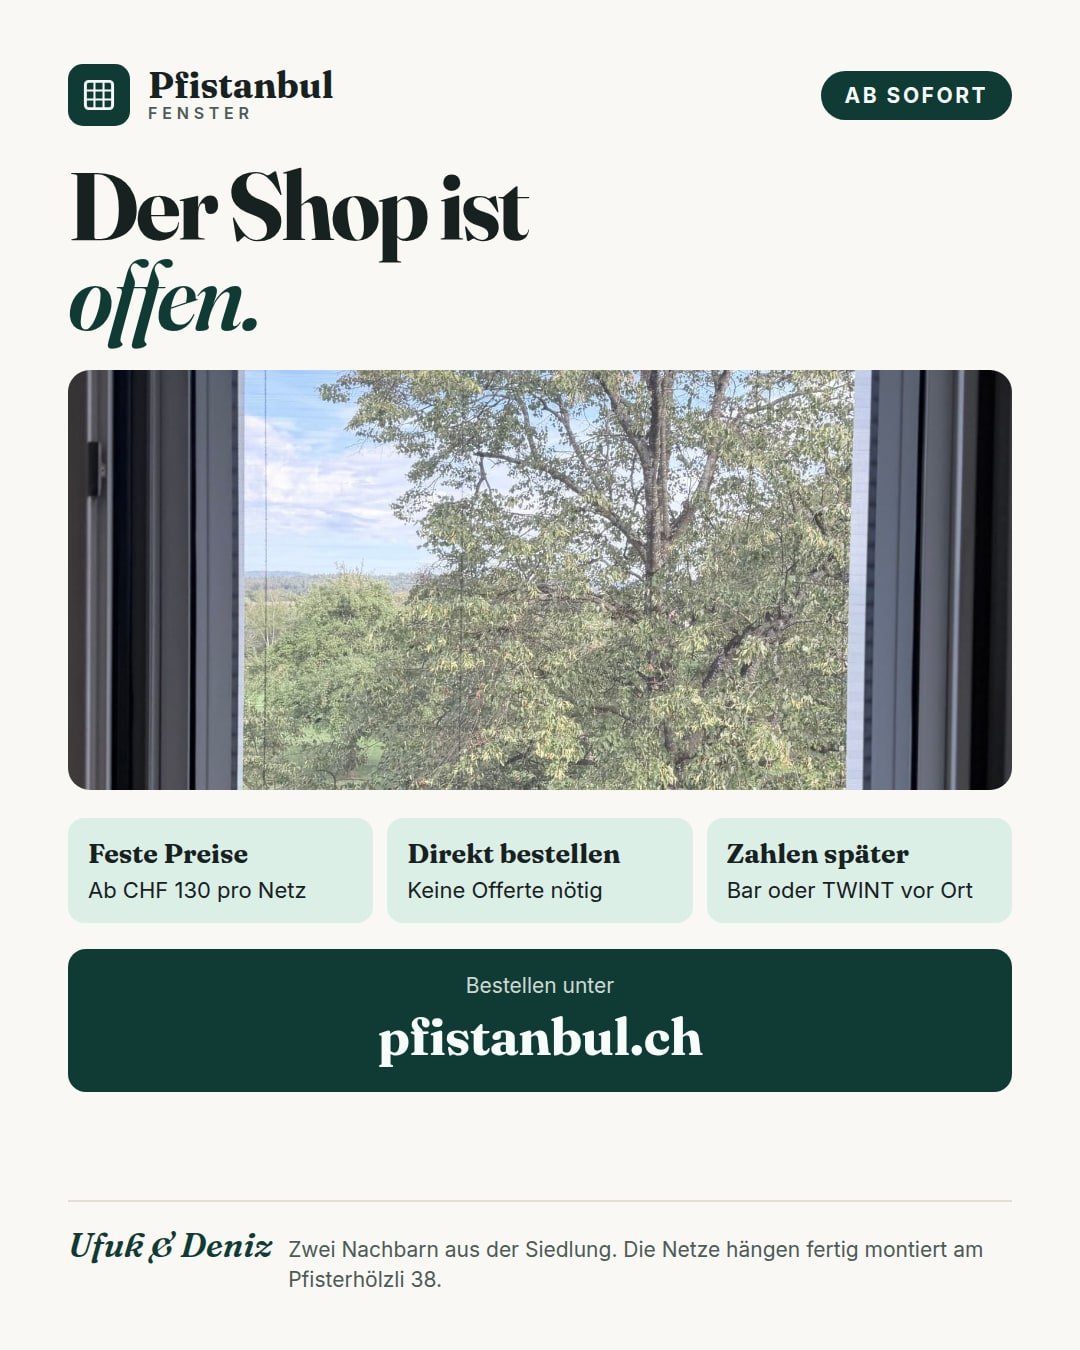
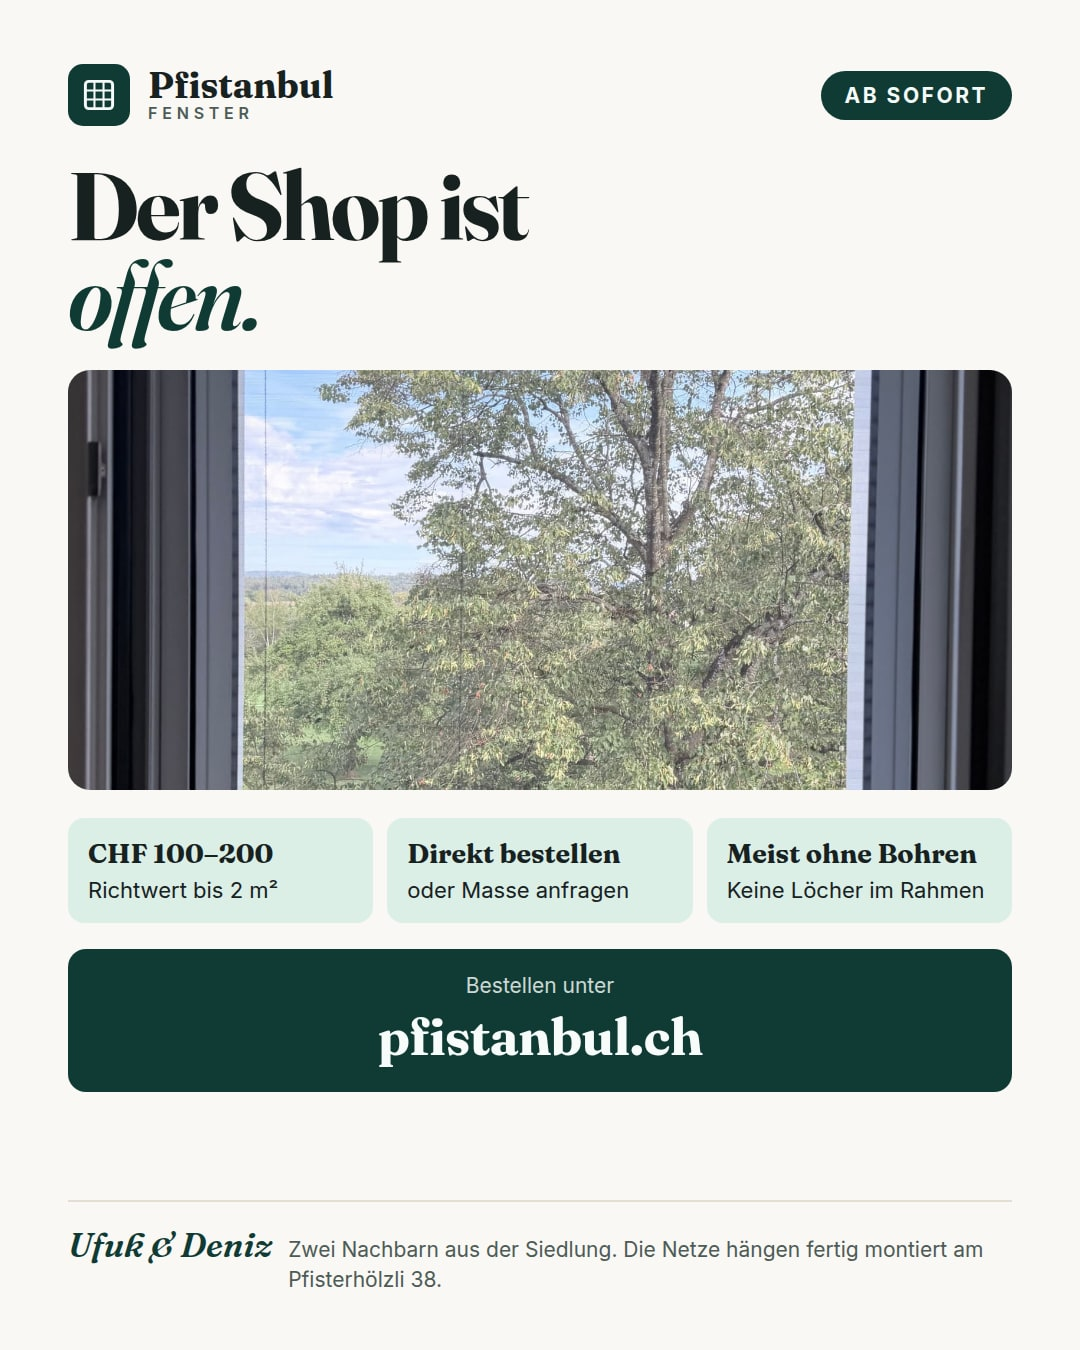
Live-Beitrag: Preisspanne statt Siedlungspreis, Bohren statt Bezahlen
Der Beitrag richtet sich nicht mehr nur an die Siedlung.

- Erste Tafel zeigt die Spanne aus dem Katalog (CHF 100-200) statt der
  festen Preise fuers Pfisterhoelzli. Der Zusatz "bis 2 m²" gehoert dazu:
  ohne ihn erwartet jemand mit einer Balkontuere von drei Quadratmetern
  hoechstens 200 Franken.
- Zweite Tafel nennt beide Wege - bestellen oder Masse anfragen.
- Dritte Tafel traegt jetzt das Montageargument statt des spaeteren
  Zahlens. Zahlungsaufschub ist ein Angebot, kein Verkaufsargument.

Der Text zog nach: Er nannte "ab CHF 130" und widersprach damit dem Bild,
und er hatte zwei Absaetze ueber das Bezahlen. Jetzt einer, dafuer einer
zum Kleben statt Bohren.

Claude-Session: https://claude.ai/code/session_01UiUFn7ykifp8b7M2ApYf3F

Changed region(s): [[0.6722, 0.6222, 0.9167, 0.6844], [0.0917, 0.6222, 0.275, 0.6844], [0.3667, 0.6533, 0.5806, 0.6844]]

diff --git a/instagram/livegang.html b/instagram/livegang.html
@@ -15,6 +15,11 @@
  * Die Adresse steht gross und allein in ihrer Zeile. Sie ist der einzige
  * Grund, warum es diesen Beitrag gibt.
  *
+ * Die Preisspanne ist die aus dem Katalog (priceRange), nicht die festen
+ * Preise fuers Pfisterhoelzli: Der Beitrag richtet sich nicht mehr nur an die
+ * Siedlung. Der Zusatz "bis 2 m²" gehoert dazu - ohne ihn erwartet jemand mit
+ * einer Balkontuere von drei Quadratmetern hoechstens 200 Franken.
+ *
  * Rendern: node instagram/tafel.mjs livegang
  */
 @font-face { font-family: 'Fraunces'; src: url('../public/fonts/fraunces-normal-700-latin.woff2') format('woff2'); font-weight: 700; font-display: block; }
@@ -99,9 +104,9 @@ h1 em { display: block; font-style: italic; color: #0f3b34; }
   </figure>
 
   <div class="punkte">
-    <div class="punkt"><b>Feste Preise</b>Ab CHF 130 pro Netz</div>
-    <div class="punkt"><b>Direkt bestellen</b>Keine Offerte nötig</div>
-    <div class="punkt"><b>Zahlen später</b>Bar oder TWINT vor Ort</div>
+    <div class="punkt"><b>CHF 100–200</b>Richtwert bis 2 m²</div>
+    <div class="punkt"><b>Direkt bestellen</b>oder Masse anfragen</div>
+    <div class="punkt"><b>Meist ohne Bohren</b>Keine Löcher im Rahmen</div>
   </div>
 
   <div class="adresse">

diff --git a/instagram/LIESMICH.md b/instagram/LIESMICH.md
@@ -166,24 +166,25 @@ im Bild: Sie ist der einzige Grund, warum es diesen Beitrag gibt.
 ```
 Ab heute können Sie bestellen.
 
-Lange gemessen, gerechnet und ausprobiert – seit heute ist der Shop offen. Die
-vier Fensterformate, die sich im Pfisterhölzli über alle Wohnungen wiederholen,
-haben wir ausgemessen. Für jedes gibt es einen festen Preis: Format wählen,
-bestellen, fertig.
+Lange gemessen, gerechnet und ausprobiert – seit heute ist der Shop offen. Wir
+lassen Insektenschutz-Plissees nach Mass fertigen und montieren sie selbst.
 
-Ab CHF 130 pro Netz, das Set für die ganze Wohnung ab CHF 775. Bezahlt wird bei
-der Übergabe, bar oder mit TWINT – wer lieber online mit Karte zahlt, kann das
-ab jetzt auch.
+Die vier Fensterformate, die sich im Pfisterhölzli über alle Wohnungen
+wiederholen, haben wir ausgemessen: dafür gibt es feste Preise ab CHF 130, das
+Set für die ganze Wohnung ab CHF 775. Überall sonst fertigen wir nach Ihren
+Massen – Richtwert CHF 100 bis 200 pro Fenster für Formate bis rund 2 m². Den
+Richtpreis sehen Sie sofort auf der Seite, noch bevor Sie anfragen.
+
+Der Rahmen klebt rundum im äusseren Fensterrahmen. Bei den allermeisten
+Fenstern braucht es dafür weder Bohrer noch Dübel – keine Löcher, nichts, was
+bei der Wohnungsabgabe auffällt. Und im Herbst bleibt das Netz einfach hängen.
 
 Ein Lager haben wir nicht. Jedes Netz wird auf Bestellung gefertigt, und wir
-bündeln die Bestellungen zu einer Lieferung. Genau daher kommt der tiefe Preis –
-den Liefertermin nennen wir Ihnen mit der Bestätigung.
+bündeln die Bestellungen zu einer Lieferung. Genau daher kommt der Preis – den
+Liefertermin nennen wir Ihnen mit der Bestätigung.
 
-Sie wohnen nicht im Pfisterhölzli? Schicken Sie uns Ihre Masse. Den Richtpreis
-sehen Sie sofort auf der Seite, noch bevor Sie anfragen.
-
-Und wenn der Betrag gerade nicht auf einmal liegt: Sagen Sie es uns. Wir machen
-eine Zahlung ab, die für Sie aufgeht, zinslos und ohne Gebühren.
+Bezahlt wird bei der Übergabe, bar oder mit TWINT. Und wenn der Betrag gerade
+nicht auf einmal liegt: Sagen Sie es uns, wir finden eine Lösung.
 
 Anschauen? Bei Deniz am Pfisterhölzli 38 hängen die Netze fertig montiert.
 
